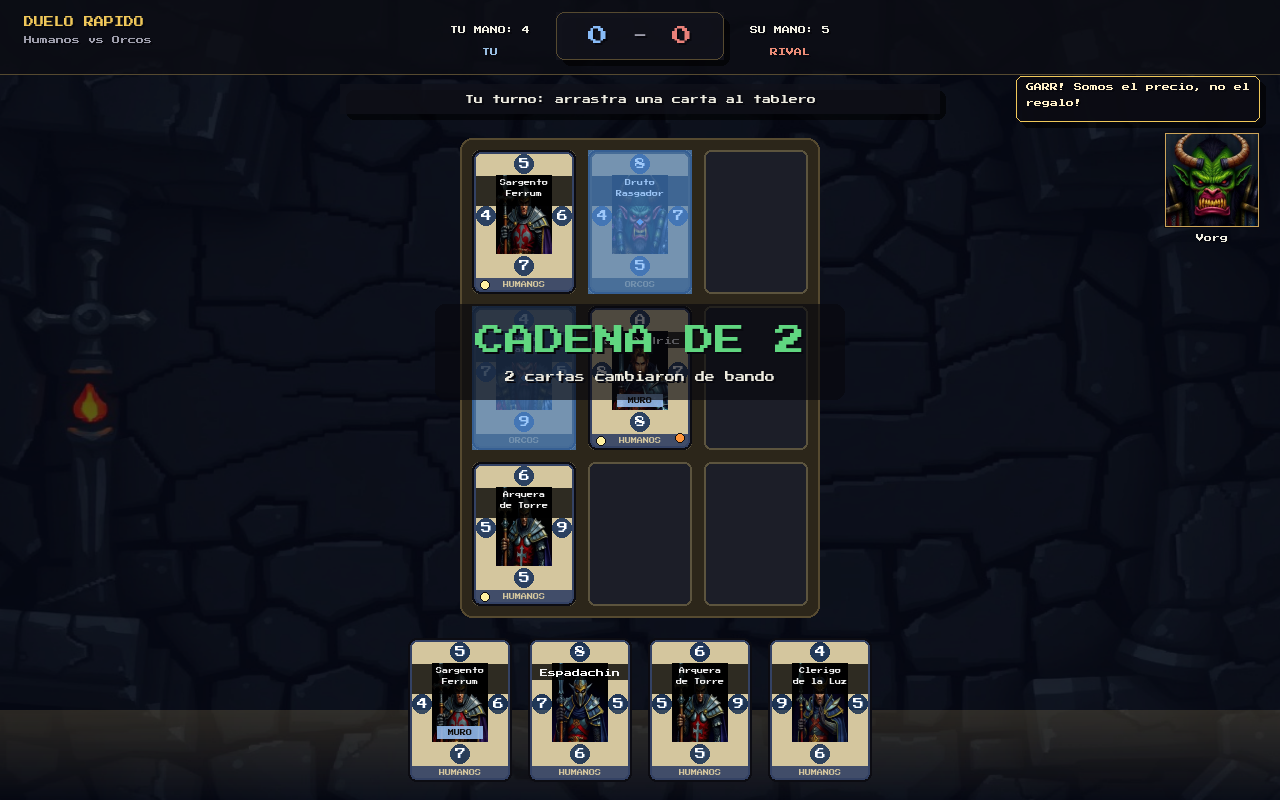
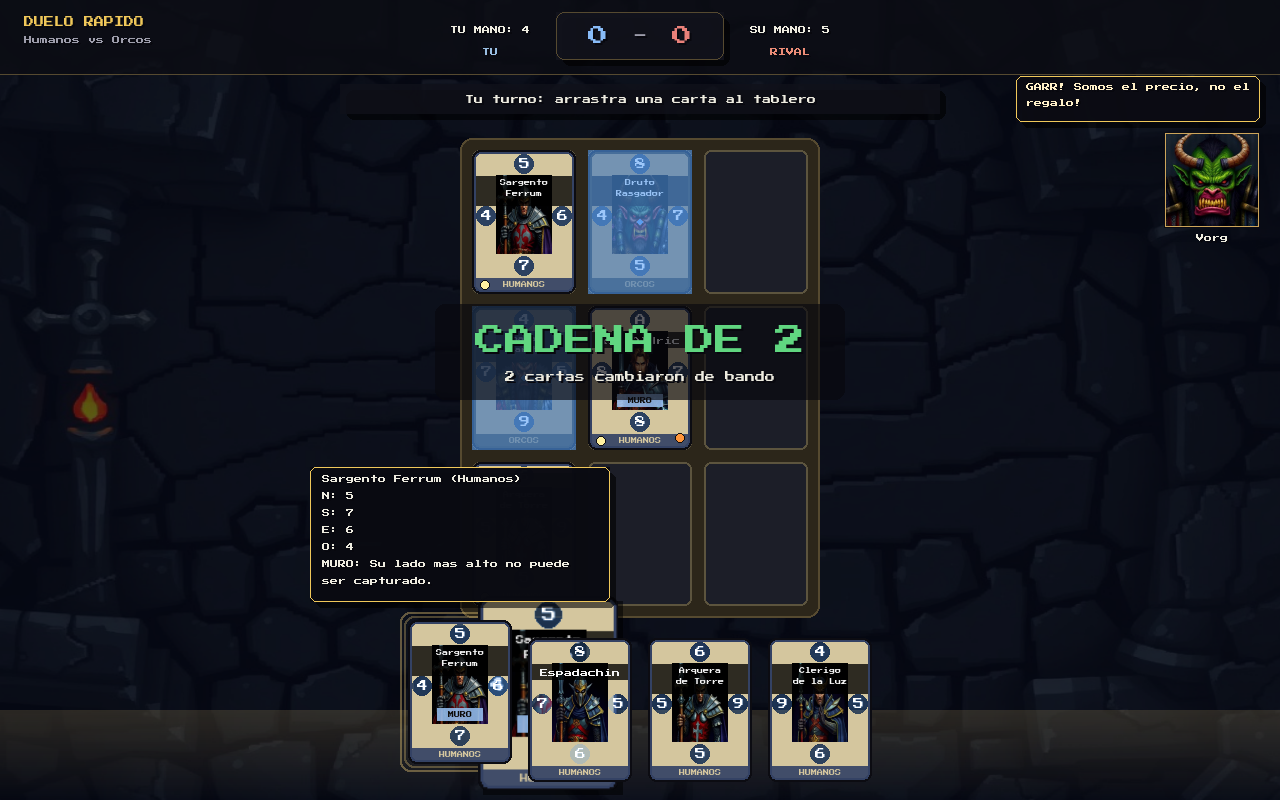
Tooltips encolados y pintados al final del frame
ui.tooltip() ya no pinta nada: apila la ficha en la cola global
_PENDIENTES. La nueva dibujar_tooltips() la vacia y la pinta al final del
frame, justo antes del flip, de modo que ni las cartas que se dibujan
despues ni el tablero ni el cartel puedan tapar la descripcion.

_sitiar_tooltip() coloca cada tooltip lejos del raton (por encima del
punto o a un lado) y lo mete dentro de la pantalla con margen, para que no
quede cortado en las esquinas.

partida.py la llama al final de Juego.dibujar(), antes de fundido_entrada,
y al pasar el raton por una carta de la mano encola la ficha completa:
nombre, bando, los cuatro valores y la habilidad (con su icono).

pantallas.py usa el mismo esquema en draft, coleccion y mapa_campana, y
anade el import que faltaba de dibujar_tooltips: sin el, las tres pantallas
lanzaban NameError en el primer frame y el juego no arrancaba. Mapa_campana
encolaba y nunca pintaba, con lo que la cola crecia frame a frame; ahora
pinta antes del flip como las otras dos.

Se borra _chevron() de cartas.py, sin llamadas desde que los valores
volvieron a los lados.

Tests nuevos en test_estabilidad: tooltip() no dibuja al instante y solo
encola, dibujar_tooltips() pinta y vacia la cola, el tooltip nunca se sale
de la pantalla ni con muitas lineas, todo modulo que encola tiene que
pintar, y el duelo llama a dibujar_tooltips() con el raton sobre la mano y
no deja nada en la cola. demo_pantallas pasa el raton por una carta de la
[…]

diff --git a/TripleTriad/tests/test_estabilidad.py b/TripleTriad/tests/test_estabilidad.py
@@ -2,11 +2,13 @@
 
     python -m unittest tests.test_estabilidad
 
-Cubre los cuatro puntos del plan:
+Cubre los puntos del plan:
   1. las cinematicallyas se pueden cerrar siempre (el bug del dialogo colgado)
   2. el flujo de duelo rapido devuelve la faccion y hay pantallon de error
   3. las cartas colocan los valores en las esquinas, sin tapar el retrato
-  4. todos los bucles respetan LIMIT_FPS y los fondos se cachean
+  4. los tooltips se encolan y se pintan al final del frame, nunca tapados
+  5. el duelo tiene musica propia
+  6. todos los bucles respetan LIMIT_FPS y los fondos se cachean
 """
 
 import io
@@ -311,7 +313,114 @@ class TestEncuadreDeCartas(unittest.TestCase):
                              "el orbe sur pisa la franja del bando")
 
 
-# ---------------------------------------------------------- 4. fps y memoria
+# ------------------------------------------------ 4. tooltips al final del frame
+class TestTooltipsSePintanAlFinal(unittest.TestCase):
+    """El bug: tooltip() pintaba en el momento y las cartas siguientes lo
+    tapaban. Ahora solo encola y dibujar_tooltips() lo pinta al final."""
+
+    def setUp(self):
+        ui._PENDIENTES.clear()
+
+    def tearDown(self):
+        ui._PENDIENTES.clear()
+
+    def test_tooltip_no_dibuja_al_instantaneo_solo_encola(self):
+        pantalla = _superficie()
+        pantalla.fill((0, 0, 0))
+        antes = pygame.image.tostring(pantalla, "RGB")
+
+        ui.tooltip(pantalla, "Golpe furiouso\nN: 5   S: 3   E: 6   O: 2",
+                   (400, 400), ancho=300, arriba=True)
+        ui.tooltip(pantalla, "Segunda ficha\ncon dos lineas", (700, 300),
+                   ancho=300, arriba=True)
+
+        self.assertEqual(len(ui._PENDIENTES), 2, "tooltip() debe encolar, no pintar")
+        despues = pygame.image.tostring(pantalla, "RGB")
+        self.assertEqual(antes, despues,
+                         "tooltip() toco la pantalla: se sigue pintando al instante")
+
+    def test_dibujar_tooltips_pinta_y_vacia_la_cola(self):
+        pantalla = _superficie()
+        pantalla.fill((0, 0, 0))
+        antes = pygame.image.tostring(pantalla, "RGB")
+        ui.tooltip(pantalla, "Se encola y se pinta al final", (500, 500),
+                   ancho=300, arriba=True)
+        self.assertEqual(len(ui._PENDIENTES), 1)
+        self.assertEqual(antes, pygame.image.tostring(pantalla, "RGB"))
+
+        ui.dibujar_tooltips(pantalla)
+
+        self.assertEqual(ui._PENDIENTES, [], "dibujar_tooltips() debe vaciar la cola")
+        self.assertNotEqual(antes, pygame.image.tostring(pantalla, "RGB"),
+                            "no se pinto nada en la pantalla")
+
+    def test_el_tooltip_siempre_cae_dentro_de_la_pantalla(self):
+        """Ni en las esquinas ni pegado al borde puede salirse."""
+        ancho, tam = 300, 8
+        alto = 6 * (tam + 9) + 16
+        for px in (0, 10, 400, ui.ANCHO - 10, ui.ANCHO - 1):
+            for py in (0, 10, 400, ui.ALTO - 10, ui.ALTO - 1):
+                for lado in ("auto", "izq", "der"):
+                    for arriba in (False, True):
+                        x, y = ui._sitiar_tooltip((px, py), ancho, alto, lado, arriba)
+                        self.assertGreaterEqual(x, 8, f"se sale por la izquierda en {px},{py}")
+                        self.assertGreaterEqual(y, 8, f"se sale por arriba en {px},{py}")
+                        self.assertLessEqual(x + ancho, ui.ANCHO - 8,
+                                             f"se sale por la derecha en {px},{py}")
+                        self.assertLessEqual(y + alto, ui.ALTO - 8,
+                                             f"se sale por abajo en {px},{py}")
+
+    def test_un_tooltip_alto_tambien_cabe_en_pantalla(self):
+        """Con muchas lineas el alto crece: aun asi no puede salirse."""
+        lineas = 30
+        alto = lineas * (8 + 9) + 16
+        for py in (0, 20, ui.ALTO - 1):
+            x, y = ui._sitiar_tooltip((30, py), 300, alto, "der", False)
+            self.assertGreaterEqual(y, 8)
+            self.assertLessEqual(y + alto, ui.ALTO - 8)
+
+    def test_todo_modulo_que_encola_tiene_que_pintar(self):
+        """Si un modulo llama a tooltip() debe llamar tambien a
+        dibujar_tooltips(): si no, la cola crece frame a frame y el tooltip
+        aparece tarde o en otra pantalla."""
+        for nombre in ("pantallas.py", "partida.py", "ui.py", "cartas.py",
+                       "cinematicas.py", "main.py"):
+            with io.open(os.path.join(RAIZ, nombre), encoding="utf-8") as f:
+                codigo = f.read()
+            if "tooltip(" not in codigo or nombre == "ui.py":
+                continue  # ui.py es quien define y pinta
+            self.assertIn("dibujar_tooltips(", codigo,
+                          f"{nombre} encola tooltips pero nunca los pinta")
+
+    def test_el_duelo_pinta_el_tooltip_al_final_del_frame(self):
+        """Con el raton sobre una carta de la mano, el tooltip se encola
+        durante _dibujar_mano y se pinta en dibujar(), sin quedar colgado."""
+        import partida as modulo_partida
+
+        pantalla = _superficie()
+        juego = modulo_partida.Juego("humano", bando_rival="orco")
+        juego.t_entrada = 0
+        raton = ui.mano_rect(0, len(juego.cartas_en_mano())).center
+
+        pintadas = []
+        original_raton = pygame.mouse.get_pos
+        original_pintar = modulo_partida.dibujar_tooltips
+        pygame.mouse.get_pos = lambda: raton
+        modulo_partida.dibujar_tooltips = lambda sup: (
+            pintadas.append(sup), original_pintar(sup))[1]
+        try:
+            self.assertFalse(juego.fin)
+            juego.dibujar(pantalla)
+        finally:
+            pygame.mouse.get_pos = original_raton
+            modulo_partida.dibujar_tooltips = original_pintar
+
+        self.assertTrue(pintadas, "el duelo no llamo a dibujar_tooltips()")
+        self.assertEqual(ui._PENDIENTES, [],
+                         "quedo un tooltip sin pintar tras dibujar el frame")
+
+
+# ---------------------------------------------------------- 5. musica del duelo
 class TestMusicaDelDuelo(unittest.TestCase):
     def test_el_duelo_tiene_musica_propia(self):
         self.assertEqual(audio.musica_de_duelo(), "musica_duelo")
@@ -345,7 +454,7 @@ class TestMusicaDelDuelo(unittest.TestCase):
         self.assertTrue(resultado)
 
 
-# ---------------------------------------------------------- 4. fps y memoria
+# ---------------------------------------------------------- 6. fps y memoria
 class TestFpsYMemoria(unittest.TestCase):
     def test_la_constante_de_fps_existe_y_vale_60(self):
         self.assertEqual(ui.LIMIT_FPS, 60)

diff --git a/TripleTriad/pantallas.py b/TripleTriad/pantallas.py
@@ -32,6 +32,7 @@ from ui import (
     Boton,
     LIMIT_FPS,
     con_alpha,
+    dibujar_tooltips,
     fundido_entrada,
     panel,
     parrafo,
@@ -538,12 +539,14 @@ def mapa_campana(screen, clock, estado):
                 screen.blit(pantalla_carta, (x, y))
                 if pygame.Rect(x, y, 56, 78).collidepoint(mouse):
                     crt.resplandor_carta(screen, pygame.Rect(x, y, 56, 78), carta, None, 110)
-                    tooltip(screen, _descripcion_carta(carta), (x + 60, y))
+                    tooltip(screen, _descripcion_carta(carta), (x + 28, y),
+                            ancho=300, arriba=True)
 
         seguir = Boton(pygame.Rect(ANCHO - 300, 660, 260, 50), "SEGUIR", 12,
                        acento=facciones.acento(faccion))
         menu = Boton(pygame.Rect(ANCHO - 300, 722, 260, 38), "GUARDAR Y SALIR", 10)
         _botones(screen, [seguir, menu], mouse, dt)
+        dibujar_tooltips(screen)
         pygame.display.flip()
 
         for ev in pygame.event.get():
@@ -842,10 +845,12 @@ def draft(screen, clock, estado, ofertas=None):
             rects.append(rect)
             if rect.collidepoint(mouse):
                 crt.resplandor_carta(screen, rect, carta, None, 110)
-                tooltip(screen, _descripcion_carta(carta), (rect.right, rect.y))
+                tooltip(screen, _descripcion_carta(carta), (rect.centerx, rect.y),
+                        ancho=300, arriba=True)
             screen.blit(sup, (rect.x, rect.y))
             etiqueta, color = rareza(carta)
             texto(screen, etiqueta, 8, color, centro=(rect.centerx, rect.bottom + 20))
+        dibujar_tooltips(screen)
         pygame.display.flip()
         elegida = None
         for ev in pygame.event.get():
@@ -1047,7 +1052,8 @@ def coleccion(screen, clock, estado=None):
             rect = pygame.Rect(x, 210, sup.get_width(), sup.get_height())
             if rect.collidepoint(mouse):
                 crt.resplandor_carta(screen, rect, carta, None, 120)
-                tooltip(screen, _descripcion_carta(carta), (rect.right, rect.y))
+                tooltip(screen, _descripcion_carta(carta), (rect.centerx, rect.y),
+                        ancho=300, arriba=True)
             screen.blit(sup, (rect.x, rect.y))
             etiqueta, color = rareza(carta)
             texto(screen, etiqueta, 8, color, centro=(rect.centerx, rect.bottom + 18))
@@ -1095,6 +1101,7 @@ def coleccion(screen, clock, estado=None):
 
         cerrar = Boton(pygame.Rect(ANCHO - 300, ALTO - 70, 260, 46), "VOLVER", 11)
         _botones(screen, [cerrar], mouse, dt)
+        dibujar_tooltips(screen)
         pygame.display.flip()
 
         for ev in pygame.event.get():

diff --git a/TripleTriad/ui.py b/TripleTriad/ui.py
@@ -488,17 +488,54 @@ class FondoAnimado:
 
 
 # ------------------------------------------------------------------ tooltip
-def tooltip(screen, cadena, pos, tam=8, ancho=260):
-    lineas = envolver(cadena, tam, ancho - 20)
-    alto = len(lineas) * (tam + 8) + 14
-    x = min(pos[0] + 16, ANCHO - ancho - 8)
-    y = min(pos[1] + 16, ALTO - alto - 8)
-    rect = pygame.Rect(x, y, ancho, alto)
-    panel(screen, rect, (12, 12, 20, 244), DORADO, radio=6, grosor=1)
-    ly = y + 7
-    for linea in lineas:
-        texto(screen, linea, tam, TEXTO, x=x + 10, y=ly)
-        ly += tam + 8
+# Los tooltips se apilan y se pintan al final del frame (dibujar_tooltips):
+# si se dibujaran en el momento, las cartas siguientes o los botones los
+# taparian y el texto quedaba ilegible.
+_PENDIENTES = []
+
+
+def tooltip(screen, cadena, pos, tam=8, ancho=280, lado="auto", arriba=False):
+    """Encola un tooltip. Se pinta con dibujar_tooltips() al final del frame.
+
+    `lado` fija la columna ("izq"/"der") y `arriba` lo coloca por encima del
+    punto, para no caer sobre la propia carta ni sobre el tablero.
+    """
+    _PENDIENTES.append((cadena, pos, tam, ancho, lado, arriba))
+
+
+def dibujar_tooltips(screen):
+    """Pinta los tooltips pendientes por encima de todo lo demas."""
+    for cadena, pos, tam, ancho, lado, arriba in _PENDIENTES:
+        lineas = []
+        for trozo in str(cadena).split("\n"):
+            lineas.extend(envolver(trozo, tam, ancho - 24) or [""])
+        alto = len(lineas) * (tam + 9) + 16
+        x, y = _sitiar_tooltip(pos, ancho, alto, lado, arriba)
+        rect = pygame.Rect(x, y, ancho, alto)
+        sombra_panel(screen, rect, 6)
+        panel(screen, rect, (10, 11, 18, 252), DORADO, radio=6, grosor=1, sombra=False)
+        ly = y + 8
+        for linea in lineas:
+            texto(screen, linea, tam, TEXTO, x=x + 12, y=ly)
+            ly += tam + 9
+    _PENDIENTES.clear()
+
+
+def _sitiar_tooltip(pos, ancho, alto, lado, arriba):
+    """Coloca el tooltip lejos del raton y siempre dentro de la pantalla."""
+    px, py = pos
+    margen = 18
+    if lado == "auto":
+        lado = "der" if px < ANCHO * 0.55 else "izq"
+    if arriba:
+        x, y = px - ancho // 2, py - alto - margen
+    elif lado == "der":
+        x, y = px + margen, py - alto // 2
+    else:
+        x, y = px - ancho - margen, py - alto // 2
+    x = max(8, min(x, ANCHO - ancho - 8))
+    y = max(8, min(y, ALTO - alto - 8))
+    return x, y
 
 
 # ----------------------------------------------------------------- cartitas

diff --git a/TripleTriad/partida.py b/TripleTriad/partida.py
@@ -16,12 +16,14 @@ import cartas as crt
 import facciones
 from reglas import (
     CPU,
+    LADOS,
     USUARIO,
     celdas_vacias,
     capturas,
     contar,
     puntaje_final,
     simular,
+    val,
 )
 from ui import (
     ALTO,
@@ -42,6 +44,7 @@ from ui import (
     VERDE,
     celda_rect,
     con_alpha,
+    dibujar_tooltips,
     ease,
     envolver,
     fundido_entrada,
@@ -350,6 +353,8 @@ class Juego:
         if self.fin:
             self._dibujar_resultado(lienzo, ahora)
 
+        # los tooltips van los ultimos: por encima de cartas, tablero y cartel
+        dibujar_tooltips(lienzo)
         fundido_entrada(lienzo, self.t_entrada, 0.35)
 
         if dx or dy:
@@ -515,9 +520,21 @@ class Juego:
                 sombra.fill((0, 0, 0, 130))
                 screen.blit(sombra, (gx + 5, gy + 5))
                 screen.blit(grande, (gx, gy))
-                if carta.habilidad:
-                    tooltip(screen, crt.descripcion_habilidad(carta.habilidad), (gx, gy + grande.get_height()))
             screen.blit(sup, (destino.x, destino.y))
+            # descripciones: se encolan y se pintan al final del frame, para
+            # que ni las cartas siguientes ni el tablero las tapen
+            if hover:
+                lineas = [f"{carta.nombre}  ({facciones.nombre(carta.bando)})"]
+                lineas += [f"{l}: {val(carta.valores[l])}" for l in LADOS]
+                if carta.habilidad:
+                    lineas.append(
+                        f"{crt.ICONO_HABILIDAD.get(carta.habilidad, carta.habilidad)}: "
+                        f"{crt.descripcion_habilidad(carta.habilidad)}"
+                    )
+                else:
+                    lineas.append("Sin habilidad especial")
+                tooltip(screen, "\n".join(lineas), (destino.centerx, destino.y),
+                        ancho=300, arriba=True)
 
         if self.arrastrando:
             carta, _ = self.arrastrando

diff --git a/TripleTriad/tests/demo_pantallas.py b/TripleTriad/tests/demo_pantallas.py
@@ -31,7 +31,7 @@ import mazos  # noqa: E402
 import pantallas  # noqa: E402
 from partida import Juego  # noqa: E402
 from reglas import CPU, USUARIO, Carta  # noqa: E402
-from ui import ALTO, ANCHO  # noqa: E402
+from ui import ALTO, ANCHO, mano_rect  # noqa: E402
 
 SALIDA = os.path.join(
     os.path.dirname(os.path.dirname(os.path.abspath(__file__))), "auditoria"
@@ -115,7 +115,15 @@ def duel():
     carta = juego.mano_u[-1]
     juego.colocar(carta, juego.mano_u, USUARIO, 1, 1)
     juego.ultima_jugada = None
-    juego.dibujar(SCREEN)
+    # raton sobre la primera carta de la mano: la descripcion tiene que verse
+    # entera y por encima de las demas cartas, nunca debajo
+    raton = mano_rect(0, len(juego.mano_u)).center
+    original_raton = pygame.mouse.get_pos
+    pygame.mouse.get_pos = lambda: raton
+    try:
+        juego.dibujar(SCREEN)
+    finally:
+        pygame.mouse.get_pos = original_raton
     guardar(SCREEN, "10_duelo.png")
 
     for (r, c) in [(1, 2), (2, 1), (2, 2), (0, 2), (1, 0)]:

diff --git a/TripleTriad/cartas.py b/TripleTriad/cartas.py
@@ -77,23 +77,6 @@ def _lineas_nombre(nombre, ancho_max):
     return mejor[1] if mejor else [limpio_nombre]
 
 
-def _chevron(surface, cx, cy, dx, dy, color):
-    """Pequeña flecha que indica hacia que lado mira el valor de la carta.
-
-    dx/dy valen -1, 0 o 1 y apuntan hacia el exterior de la esquina.
-    """
-    largo = 4
-    if dx == 0 and dy < 0:      # hacia arriba
-        puntos = [(cx, cy - largo), (cx - largo, cy + largo), (cx + largo, cy + largo)]
-    elif dx == 0 and dy > 0:    # hacia abajo
-        puntos = [(cx, cy + largo), (cx - largo, cy - largo), (cx + largo, cy - largo)]
-    elif dx < 0:                # hacia la izquierda
-        puntos = [(cx - largo, cy), (cx + largo, cy - largo), (cx + largo, cy + largo)]
-    else:                       # hacia la derecha
-        puntos = [(cx + largo, cy), (cx - largo, cy - largo), (cx - largo, cy + largo)]
-    pygame.draw.polygon(surface, color, puntos)
-
-
 RADIO_ORBE = 10
 
 
